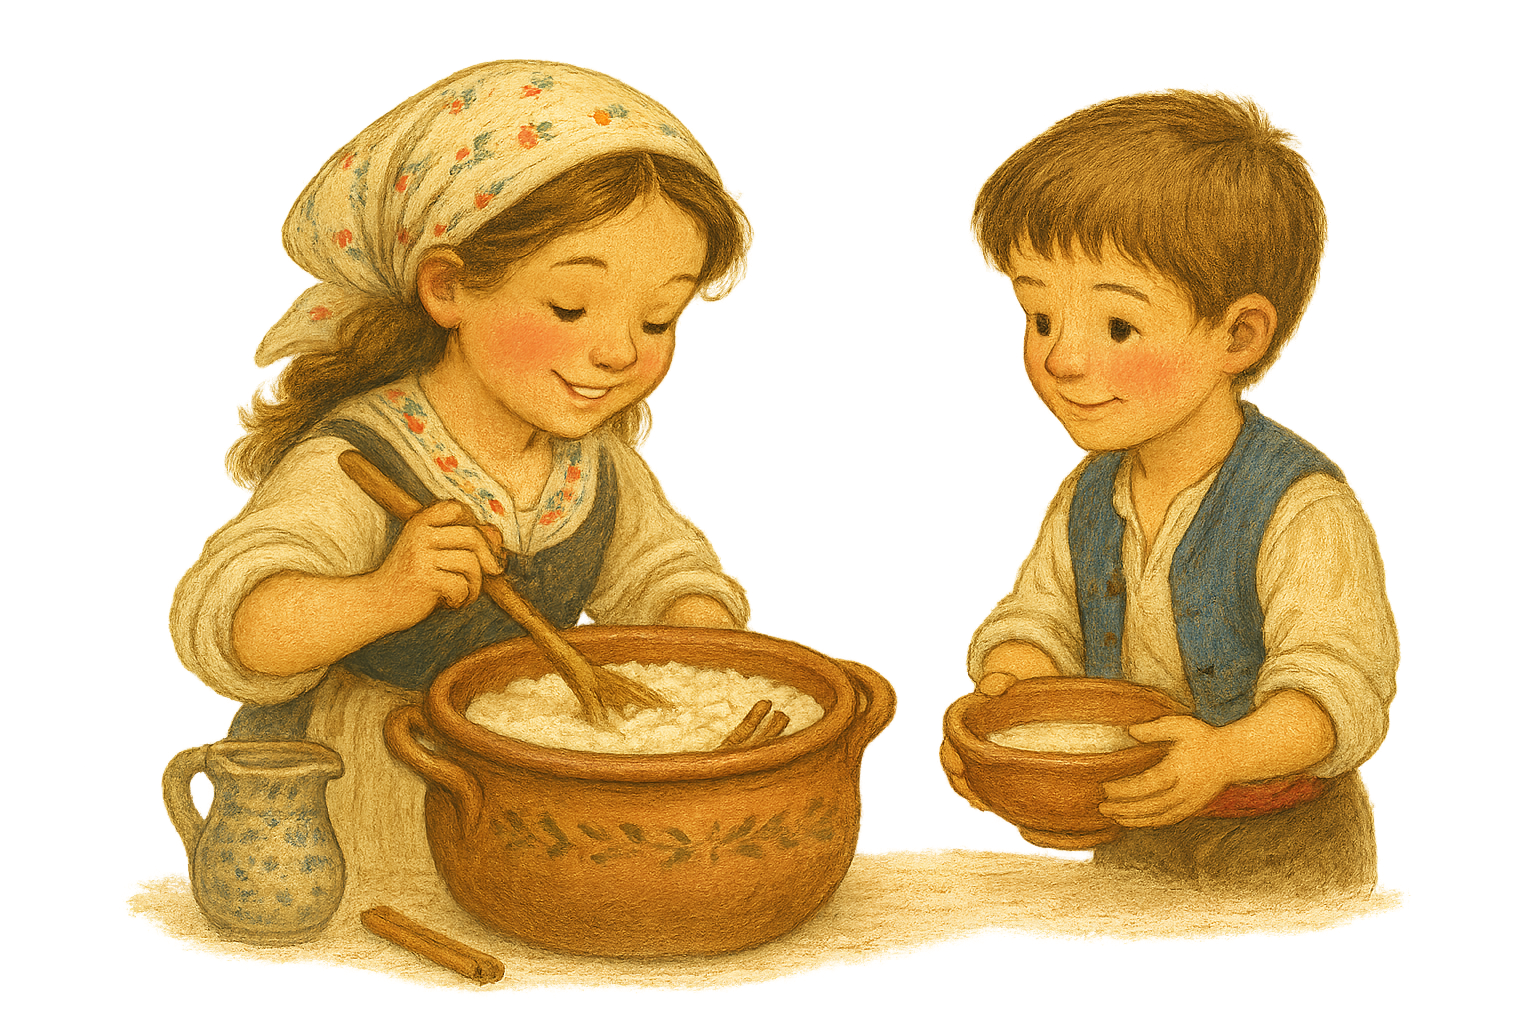
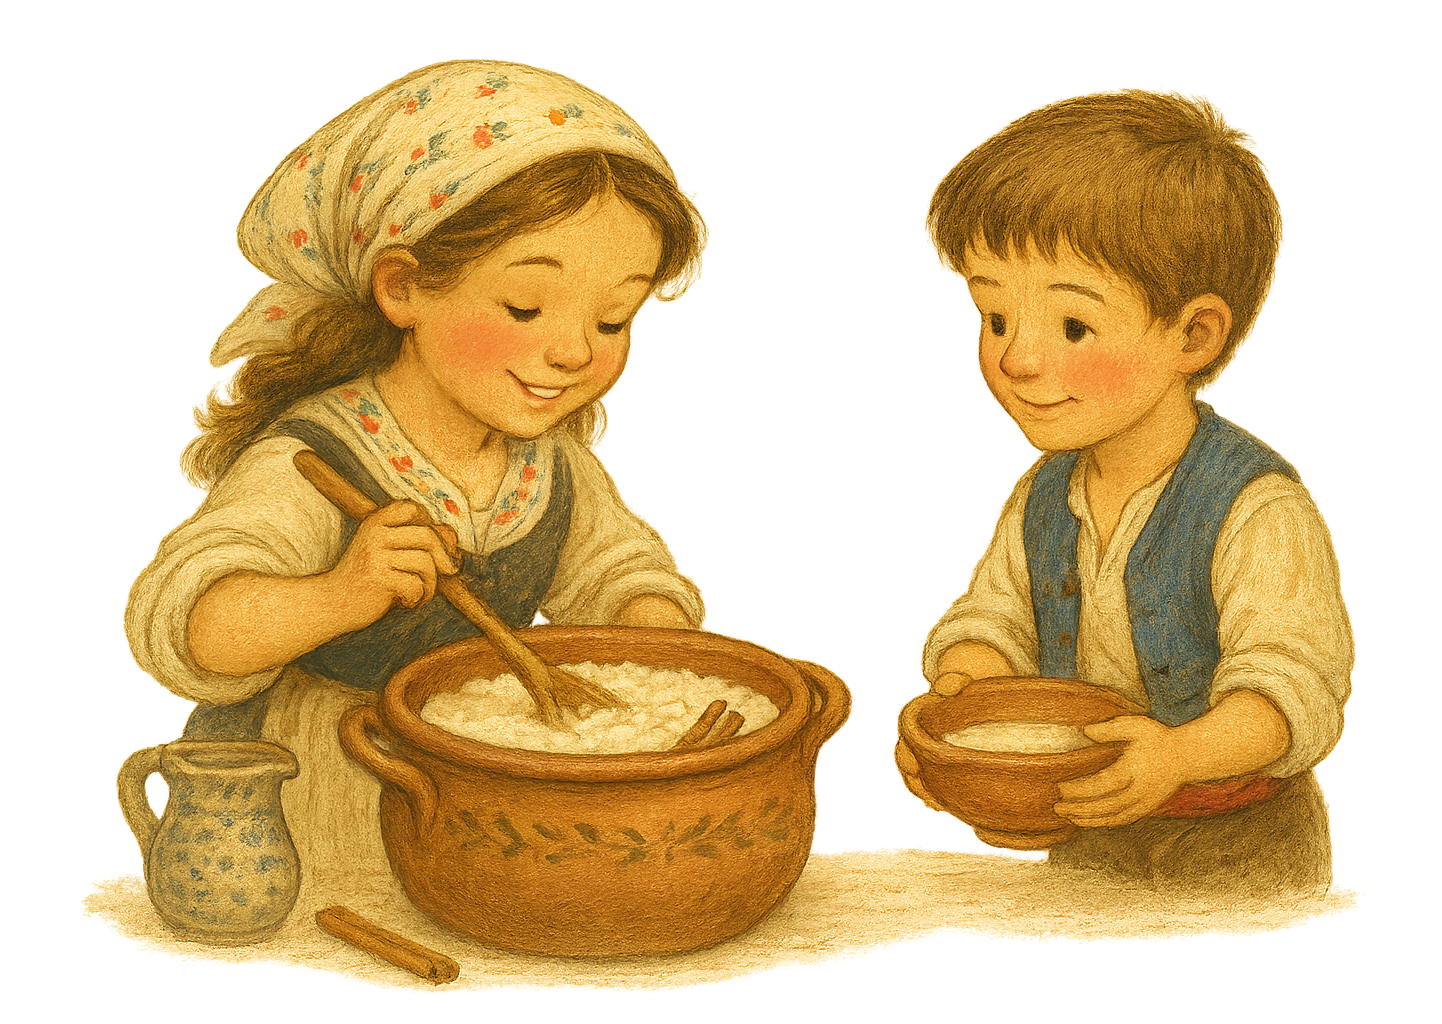
Crop illustration artwork to consistent framing across the whole pack
The CSS box for every "painting"-style illustration was already a
consistent 112mm wide -- but the ARTWORK inside varied hugely in how
much of its own transparent canvas the subject actually filled, from
~79% (well-framed) down to ~37-42% (a tiny subject floating in mostly
blank space, e.g. Cabeza hombros, Estrellita). That's what "the images
look slightly different" was actually pointing at.

Cropped the 16 worst-offending PNGs (of 26 total) to a tight bounding
box around their non-transparent content, with a small uniform margin.
For the few whose subject is naturally taller than wide, padded back
out to a 112:84 minimum aspect ratio rather than letting the tighter
crop shrink their effective on-page width via the max-height
constraint -- caught by re-measuring after the first pass, not by
assuming the simple crop was enough.

All 26 painting-style illustrations now render at an identical 112mm
effective width. No HTML/CSS/JS touched -- asset-only change. Verified
via before/after renders, recomputed effective-width measurements, and
the front/back tier audit script from the previous commit (still 0
mismatches).

Claude-Session: https://claude.ai/code/session_011saRmvJqVKKcu7br3XL5DQ

diff --git a/STATUS.md b/STATUS.md
@@ -2873,6 +2873,63 @@ reported bug on ONE card raises the question "does this happen
 elsewhere too" -- it took only a few minutes and found 16 more cases
 that would otherwise have surfaced one screenshot at a time.
 
+## Illustration artwork framing made consistent — September 2026
+
+Sebastian, right after the front/back tier audit: "are the images all
+the same size aross the whole pack? they look slightly different."
+
+**This turned out NOT to be the same bug as the tier audit, or even a
+code bug at all.** Measured the actual rendered CSS box for every
+"painting"-style illustration (26 of 75 cards use these bespoke
+PNGs; the other 49 use flat inline-SVG icons) -- box width was
+already a perfectly consistent 112mm for all 26, so the CSS/layout
+side was fine. The real cause was in the ARTWORK itself: each PNG has
+a transparent background, and how much of the canvas the actual
+painted subject fills varies enormously between images -- from ~79%
+(Pin Pon, well-framed) down to ~37-42% (Cabeza hombros, Estrellita --
+tiny subject floating in a sea of transparent padding). Rendering a
+grid of all 13 favourites-pack illustrations side by side made this
+completely obvious in a way the CSS numbers alone didn't show.
+
+**Fix.** Wrote a Python/Pillow script: for each of the 16 offending
+images (out of 26 -- the other 10 already fill their canvas edge to
+edge), compute the tight bounding box of non-transparent content, add
+a small margin (6% of the larger dimension), and crop to it. First
+pass just did this directly -- shrank the padding beautifully, but
+for a few images (Cabeza hombros, Estrellita, Tengo una muñeca...)
+the SUBJECT itself is naturally taller than it is wide, so a tight
+crop gave a portrait-ish aspect ratio that pushed the OTHER css
+constraint (max-height:86mm) into binding instead of width, shrinking
+the effective on-page width back down to as little as 63mm --
+trading one inconsistency for another, caught by re-measuring rather
+than assuming success. Second pass added a floor: if the tight crop's
+aspect ratio would come out below 112/84 (~1.33 -- the same box shape
+the already-good 10 images already use), pad the SHORTER dimension
+symmetrically with transparent pixels until it hits that ratio,
+rather than cropping tighter. Result: all 26 images now render at an
+identical, consistent 112mm effective width, with padding trimmed to
+a small, uniform margin instead of wildly differing amounts.
+
+**Verification.** Rendered every affected image original-vs-cropped
+at matched physical size before touching the real files (caught the
+first pass's aspect-ratio regression this way, before it ever reached
+assets/); recomputed the effective-width numbers directly from the
+final files (all 112.0mm, none of the earlier variance); re-rendered
+the actual book pages for 6 of the affected cards and confirmed
+visually that the subjects now read as consistently sized flipping
+between cards; re-ran the front/back audit script from the previous
+entry (still 0 mismatches, since front and back share the same
+cropped file via cloneNode). Full validation suite clean. No HTML/CSS/
+JS changed at all -- this was purely an asset edit (16 PNGs cropped in
+place), verified nothing else references their old pixel dimensions.
+
+**Lesson**: "same CSS box" does not mean "looks the same size" when
+the content filling that box (here, artwork with wildly different
+amounts of internal padding) isn't itself consistent -- this is a
+different failure mode from every other consistency bug this session
+(which were all geometry/layout), worth remembering that the fix
+sometimes lives in the asset, not the code around it.
+
 ## Suggested next steps
 
 1. Second pass on Venezuela (first attempt found only a vague summary of
